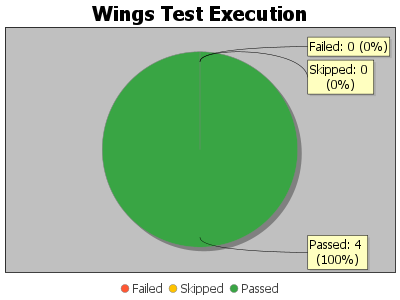
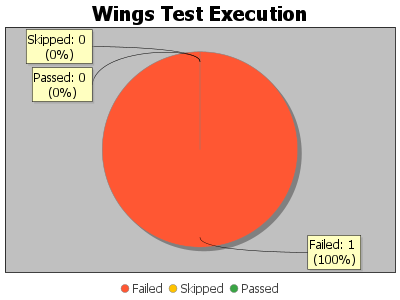
[vikas] Purchase Voucher class and it's Json file

diff --git a/mailTemplates/to.html b/mailTemplates/to.html
@@ -48,19 +48,19 @@
                             </tr>
                             <tr>
                                 <td align="left" valign="middle" style="background:#e9e9e9; border:1px solid #b6b6b6; font:bold 13px 'Segoe UI', Arial, Helvetica, sans-serif; " class="auto-style1">Test Pass Rate</td>
-                                <td align="left" valign="middle" style="border:1px solid #b6b6b6; font:normal 13px 'Segoe UI', Arial, Helvetica, sans-serif; ">100.00%</td>
+                                <td align="left" valign="middle" style="border:1px solid #b6b6b6; font:normal 13px 'Segoe UI', Arial, Helvetica, sans-serif; ">0.00%</td>
                             </tr>
                             <tr>
                                 <td align="left" valign="middle" style="background: #e9e9e9; border: 1px solid #b6b6b6; font: bold 13px 'Segoe UI', Arial, Helvetica, sans-serif;" class="auto-style1">Passed Tests</td>
-                                <td align="left" valign="middle" style="border: 1px solid #b6b6b6; font: normal 13px 'Segoe UI', Arial, Helvetica, sans-serif;">25</td>
-                            </tr>
-                            <tr>
-                                <td align="left" valign="middle" style="background: #e9e9e9; border: 1px solid #b6b6b6; font: bold 13px 'Segoe UI', Arial, Helvetica, sans-serif;" class="auto-style1">Failed Tests</td>
                                 <td align="left" valign="middle" style="border: 1px solid #b6b6b6; font: normal 13px 'Segoe UI', Arial, Helvetica, sans-serif;">0</td>
                             </tr>
                             <tr>
+                                <td align="left" valign="middle" style="background: #e9e9e9; border: 1px solid #b6b6b6; font: bold 13px 'Segoe UI', Arial, Helvetica, sans-serif;" class="auto-style1">Failed Tests</td>
+                                <td align="left" valign="middle" style="border: 1px solid #b6b6b6; font: normal 13px 'Segoe UI', Arial, Helvetica, sans-serif;">1</td>
+                            </tr>
+                            <tr>
                                 <td align="left" valign="middle" style="background: #e9e9e9; border: 1px solid #b6b6b6; font: bold 13px 'Segoe UI', Arial, Helvetica, sans-serif;" class="auto-style1">Total Tests</td>
-                                <td align="left" valign="middle" style="border: 1px solid #b6b6b6; font: normal 13px 'Segoe UI', Arial, Helvetica, sans-serif;">25</td>
+                                <td align="left" valign="middle" style="border: 1px solid #b6b6b6; font: normal 13px 'Segoe UI', Arial, Helvetica, sans-serif;">1</td>
                             </tr>
                             <tr>
                                 <td align="left" valign="middle" style="background: #e9e9e9; border: 1px solid #b6b6b6; font: bold 13px 'Segoe UI', Arial, Helvetica, sans-serif;" class="auto-style1">Skipped Tests</td>
@@ -68,16 +68,16 @@
                             </tr>
                             <tr>
                                 <td align="left" valign="middle" style="background:#e9e9e9; border:1px solid #b6b6b6; font:bold 13px 'Segoe UI', Arial, Helvetica, sans-serif; " class="auto-style1">Execution Start Time</td>
-                                <td width="60%" align="left" valign="middle" style="border:1px solid #b6b6b6; font:normal 13px 'Segoe UI', Arial, Helvetica, sans-serif; ">2025-05-30T18:26:56 IST</td>
+                                <td width="60%" align="left" valign="middle" style="border:1px solid #b6b6b6; font:normal 13px 'Segoe UI', Arial, Helvetica, sans-serif; ">2025-06-12T18:15:28 IST</td>
                             </tr>
                             <tr>
                                 <td align="left" valign="middle" style="background:#e9e9e9; border:1px solid #b6b6b6; font:bold 13px 'Segoe UI', Arial, Helvetica, sans-serif; " class="auto-style1">Execution End Time
                                 </td>
-                                <td width="60%" align="left" valign="middle" style="border:1px solid #b6b6b6; font:normal 13px 'Segoe UI', Arial, Helvetica, sans-serif; ">2025-05-30T23:05:41 IST</td>
+                                <td width="60%" align="left" valign="middle" style="border:1px solid #b6b6b6; font:normal 13px 'Segoe UI', Arial, Helvetica, sans-serif; ">2025-06-12T18:24:53 IST</td>
                             </tr>
                             <tr>
                                 <td align="left" valign="middle" style="background:#e9e9e9; border:1px solid #b6b6b6; font:bold 13px 'Segoe UI', Arial, Helvetica, sans-serif; " class="auto-style1">Execution Time</td>
-                                <td width="60%" align="left" valign="middle" style="border:1px solid #b6b6b6; font:normal 13px 'Segoe UI', Arial, Helvetica, sans-serif; ">04:38:45</td>
+                                <td width="60%" align="left" valign="middle" style="border:1px solid #b6b6b6; font:normal 13px 'Segoe UI', Arial, Helvetica, sans-serif; ">00:09:25</td>
                             </tr>
                             <!--                            <tr>-->
                             <!--                                <td align="left" valign="middle" style="background:#e9e9e9; border:1px solid #b6b6b6; font:bold 13px 'Segoe UI', Arial, Helvetica, sans-serif; " class="auto-style1">Build Version</td>-->
@@ -104,7 +104,7 @@
                     <th align="center" valign="middle" style="background: #e2e2e2; border: 1px solid #b6b6b6; font: bold 13px 'Segoe UI', Arial, Helvetica, sans-serif;">Test Duration</th>
                 </tr>
                 </thead>
-                <tr style='text-align: center; vertical-align: middle;'> <td align="center" valign="middle" style="border:1px solid #b6b6b6; font:normal 13px 'Segoe UI', Arial, Helvetica, sans-serif; ">1</td><td align="left" valign="middle" style="border:1px solid #b6b6b6; font:normal 13px 'Segoe UI', Arial, Helvetica, sans-serif; ">PE 1</td><td  align="left" valign="middle" style="border:1px solid #b6b6b6; font:normal 13px 'Segoe UI', Arial, Helvetica, sans-serif; ">Purchase Enquiries</td><td align="center" valign="middle" style="border:1px solid #b6b6b6; font:normal 13px 'Segoe UI', Arial, Helvetica, sans-serif; ">PASS</td><td align="left" valign="middle" style="border:1px solid #b6b6b6; font:normal 13px 'Segoe UI', Arial, Helvetica, sans-serif; ">2 min</td></tr><tr style='text-align: center; vertical-align: middle;'> <td align="center" valign="middle" style="border:1px solid #b6b6b6; font:normal 13px 'Segoe UI', Arial, Helvetica, sans-serif; ">2</td><td align="left" valign="middle" style="border:1px solid #b6b6b6; font:normal 13px 'Segoe UI', Arial, Helvetica, sans-serif; ">PEC 2</td><td  align="left" valign="middle" style="border:1px solid #b6b6b6; font:normal 13px 'Segoe UI', Arial, Helvetica, sans-serif; ">Purchase Enquiries Cancellation</td><td align="center" valign="middle" style="border:1px solid #b6b6b6; font:normal 13px 'Segoe UI', Arial, Helvetica, sans-serif; ">PASS</td><td align="left" valign="middle" style="border:1px solid #b6b6b6; font:normal 13px 'Segoe UI', Arial, Helvetica, sans-serif; ">6 min</td></tr><tr style='text-align: center; vertical-align: middle;'> <td align="center" valign="middle" style="border:1px solid #b6b6b6; font:normal 13px 'Segoe UI', Arial, Helvetica, sans-serif; ">3</td><td align="left" valign="middle" style="border:1px solid #b6b6b6; font:normal 13px 'Segoe UI', Arial, Helvetica, sans-serif; ">PQ 3</td><td  align="left" valign="middle" style="border:1px solid #b6b6b6; font:normal 13px 'Segoe UI', Arial, Helvetica, sans-serif; ">Purchase Quotations</td><td align="center" valign="middle" style="border:1px solid #b6b6b6; font:normal 13px 'Segoe UI', Arial, Helvetica, sans-serif; ">PASS</td><td align="left" valign="middle" style="border:1px solid #b6b6b6; font:normal 13px 'Segoe UI', Arial, Helvetica, sans-serif; ">6 min</td></tr><tr style='text-align: center; vertical-align: middle;'> <td align="center" valign="middle" style="border:1px solid #b6b6b6; font:normal 13px 'Segoe UI', Arial, Helvetica, sans-serif; ">4</td><td align="left" valign="middle" style="border:1px solid #b6b6b6; font:normal 13px 'Segoe UI', Arial, Helvetica, sans-serif; ">PQAE 4</td><td  align="left" valign="middle" style="border:1px solid #b6b6b6; font:normal 13px 'Segoe UI', Arial, Helvetica, sans-serif; ">Purchase Quotations Against Enquiries</td><td align="center" valign="middle" style="border:1px solid #b6b6b6; font:normal 13px 'Segoe UI', Arial, Helvetica, sans-serif; ">PASS</td><td align="left" valign="middle" style="border:1px solid #b6b6b6; font:normal 13px 'Segoe UI', Arial, Helvetica, sans-serif; ">9 min</td></tr><tr style='text-align: center; vertical-align: middle;'> <td align="center" valign="middle" style="border:1px solid #b6b6b6; font:normal 13px 'Segoe UI', Arial, Helvetica, sans-serif; ">5</td><td align="left" valign="middle" style="border:1px solid #b6b6b6; font:normal 13px 'Segoe UI', Arial, Helvetica, sans-serif; ">POAQ 5</td><td  align="left" valign="middle" style="border:1px solid #b6b6b6; font:normal 13px 'Segoe UI', Arial, Helvetica, sans-serif; ">Purchase Orders Against Quotations</td><td align="center" valign="middle" style="border:1px solid #b6b6b6; font:normal 13px 'Segoe UI', Arial, Helvetica, sans-serif; ">PASS</td><td align="left" valign="middle" style="border:1px solid #b6b6b6; font:normal 13px 'Segoe UI', Arial, Helvetica, sans-serif; ">16 min</td></tr><tr style='text-align: center; vertical-align: middle;'> <td align="center" valign="middle" style="border:1px solid #b6b6b6; font:normal 13px 'Segoe UI', Arial, Helvetica, sans-serif; ">6</td><td align="left" valign="middle" style="border:1px solid #b6b6b6; font:normal 13px 'Segoe UI', Arial, Helvetica, sans-serif; ">PO 6</td><td  align="left" valign="middle" style="border:1px solid #b6b6b6; font:normal 13px 'Segoe UI', Arial, Helvetica, sans-serif; ">Purchase Orders</td><td align="center" valign="middle" style="border:1px solid #b6b6b6; font:normal 13px 'Segoe UI', Arial, Helvetica, sans-serif; ">PASS</td><td align="left" valign="middle" style="border:1px solid #b6b6b6; font:normal 13px 'Segoe UI', Arial, Helvetica, sans-serif; ">9 min</td></tr><tr style='text-align: center; vertical-align: middle;'> <td align="center" valign="middle" style="border:1px solid #b6b6b6; font:normal 13px 'Segoe UI', Arial, Helvetica, sans-serif; ">7</td><td align="left" valign="middle" style="border:1px solid #b6b6b6; font:normal 13px 'Segoe UI', Arial, Helvetica, sans-serif; ">POC 7</td><td  align="left" valign="middle" style="border:1px solid #b6b6b6; font:normal 13px 'Segoe UI', Arial, Helvetica, sans-serif; ">Purchase Orders Cancellation</td><td align="center" valign="middle" style="border:1px solid #b6b6b6; font:normal 13px 'Segoe UI', Arial, Helvetica, sans-serif; ">PASS</td><td align="left" valign="middle" style="border:1px solid #b6b6b6; font:normal 13px 'Segoe UI', Arial, Helvetica, sans-serif; ">15 min</td></tr><tr style='text-align: center; vertical-align: middle;'> <td align="center" valign="middle" style="border:1px solid #b6b6b6; font:normal 13px 'Segoe UI', Arial, Helvetica, sans-serif; ">8</td><td align="left" valign="middle" style="border:1px solid #b6b6b6; font:normal 13px 'Segoe UI', Arial, Helvetica, sans-serif; ">MRec 8</td><td  align="left" valign="middle" style="border:1px solid #b6b6b6; font:normal 13px 'Segoe UI', Arial, Helvetica, sans-serif; ">Material Receipts</td><td align="center" valign="middle" style="border:1px solid #b6b6b6; font:normal 13px 'Segoe UI', Arial, Helvetica, sans-serif; ">PASS</td><td align="left" valign="middle" style="border:1px solid #b6b6b6; font:normal 13px 'Segoe UI', Arial, Helvetica, sans-serif; ">8 min</td></tr><tr style='text-align: center; vertical-align: middle;'> <td align="center" valign="middle" style="border:1px solid #b6b6b6; font:normal 13px 'Segoe UI', Arial, Helvetica, sans-serif; ">9</td><td align="left" valign="middle" style="border:1px solid #b6b6b6; font:normal 13px 'Segoe UI', Arial, Helvetica, sans-serif; ">MRAO 9</td><td  align="left" valign="middle" style="border:1px solid #b6b6b6; font:normal 13px 'Segoe UI', Arial, Helvetica, sans-serif; ">Material Receipts Against Orders</td><td align="center" valign="middle" style="border:1px solid #b6b6b6; font:normal 13px 'Segoe UI', Arial, Helvetica, sans-serif; ">PASS</td><td align="left" valign="middle" style="border:1px solid #b6b6b6; font:normal 13px 'Segoe UI', Arial, Helvetica, sans-serif; ">22 min</td></tr><tr style='text-align: center; vertical-align: middle;'> <td align="center" valign="middle" style="border:1px solid #b6b6b6; font:normal 13px 'Segoe UI', Arial, Helvetica, sans-serif; ">10</td><td align="left" valign="middle" style="border:1px solid #b6b6b6; font:normal 13px 'Segoe UI', Arial, Helvetica, sans-serif; ">MRet 10</td><td  align="left" valign="middle" style="border:1px solid #b6b6b6; font:normal 13px 'Segoe UI', Arial, Helvetica, sans-serif; ">Material Returns</td><td align="center" valign="middle" style="border:1px solid #b6b6b6; font:normal 13px 'Segoe UI', Arial, Helvetica, sans-serif; ">PASS</td><td align="left" valign="middle" style="border:1px solid #b6b6b6; font:normal 13px 'Segoe UI', Arial, Helvetica, sans-serif; ">19 min</td></tr><tr style='text-align: center; vertical-align: middle;'> <td align="center" valign="middle" style="border:1px solid #b6b6b6; font:normal 13px 'Segoe UI', Arial, Helvetica, sans-serif; ">11</td><td align="left" valign="middle" style="border:1px solid #b6b6b6; font:normal 13px 'Segoe UI', Arial, Helvetica, sans-serif; ">PV 11</td><td  align="left" valign="middle" style="border:1px solid #b6b6b6; font:normal 13px 'Segoe UI', Arial, Helvetica, sans-serif; ">Purchase Vouchers</td><td align="center" valign="middle" style="border:1px solid #b6b6b6; font:normal 13px 'Segoe UI', Arial, Helvetica, sans-serif; ">PASS</td><td align="left" valign="middle" style="border:1px solid #b6b6b6; font:normal 13px 'Segoe UI', Arial, Helvetica, sans-serif; ">20 min</td></tr><tr style='text-align: center; vertical-align: middle;'> <td align="center" valign="middle" style="border:1px solid #b6b6b6; font:normal 13px 'Segoe UI', Arial, Helvetica, sans-serif; ">12</td><td align="left" valign="middle" style="border:1px solid #b6b6b6; font:normal 13px 'Segoe UI', Arial, Helvetica, sans-serif; ">PVAPO 12</td><td  align="left" valign="middle" style="border:1px solid #b6b6b6; font:normal 13px 'Segoe UI', Arial, Helvetica, sans-serif; ">Purchase Vouchers Against PurchaseOrders</td><td align="center" valign="middle" style="border:1px solid #b6b6b6; font:normal 13px 'Segoe UI', Arial, Helvetica, sans-serif; ">PASS</td><td align="left" valign="middle" style="border:1px solid #b6b6b6; font:normal 13px 'Segoe UI', Arial, Helvetica, sans-serif; ">30 min</td></tr><tr style='text-align: center; vertical-align: middle;'> <td align="center" valign="middle" style="border:1px solid #b6b6b6; font:normal 13px 'Segoe UI', Arial, Helvetica, sans-serif; ">13</td><td align="left" valign="middle" style="border:1px solid #b6b6b6; font:normal 13px 'Segoe UI', Arial, Helvetica, sans-serif; ">PVAPR 13</td><td  align="left" valign="middle" style="border:1px solid #b6b6b6; font:normal 13px 'Segoe UI', Arial, Helvetica, sans-serif; ">Purchase Vouchers Against PurchaseReceipts</td><td align="center" valign="middle" style="border:1px solid #b6b6b6; font:normal 13px 'Segoe UI', Arial, Helvetica, sans-serif; ">PASS</td><td align="left" valign="middle" style="border:1px solid #b6b6b6; font:normal 13px 'Segoe UI', Arial, Helvetica, sans-serif; ">30 min</td></tr><tr style='text-align: center; vertical-align: middle;'> <td align="center" valign="middle" style="border:1px solid #b6b6b6; font:normal 13px 'Segoe UI', Arial, Helvetica, sans-serif; ">14</td><td align="left" valign="middle" style="border:1px solid #b6b6b6; font:normal 13px 'Segoe UI', Arial, Helvetica, sans-serif; ">PPV 14</td><td  align="left" valign="middle" style="border:1px solid #b6b6b6; font:normal 13px 'Segoe UI', Arial, Helvetica, sans-serif; ">Proforma Purchase Vouchers</td><td align="center" valign="middle" style="border:1px solid #b6b6b6; font:normal 13px 'Segoe UI', Arial, Helvetica, sans-serif; ">PASS</td><td align="left" valign="middle" style="border:1px solid #b6b6b6; font:normal 13px 'Segoe UI', Arial, Helvetica, sans-serif; ">9 min</td></tr><tr style='text-align: center; vertical-align: middle;'> <td align="center" valign="middle" style="border:1px solid #b6b6b6; font:normal 13px 'Segoe UI', Arial, Helvetica, sans-serif; ">15</td><td align="left" valign="middle" style="border:1px solid #b6b6b6; font:normal 13px 'Segoe UI', Arial, Helvetica, sans-serif; ">PRet 15</td><td  align="left" valign="middle" style="border:1px solid #b6b6b6; font:normal 13px 'Segoe UI', Arial, Helvetica, sans-serif; ">Purchase Returns</td><td align="center" valign="middle" style="border:1px solid #b6b6b6; font:normal 13px 'Segoe UI', Arial, Helvetica, sans-serif; ">PASS</td><td align="left" valign="middle" style="border:1px solid #b6b6b6; font:normal 13px 'Segoe UI', Arial, Helvetica, sans-serif; ">14 min</td></tr><tr style='text-align: center; vertical-align: middle;'> <td align="center" valign="middle" style="border:1px solid #b6b6b6; font:normal 13px 'Segoe UI', Arial, Helvetica, sans-serif; ">16</td><td align="left" valign="middle" style="border:1px solid #b6b6b6; font:normal 13px 'Segoe UI', Arial, Helvetica, sans-serif; ">PRWIR-PVAO 16</td><td  align="left" valign="middle" style="border:1px solid #b6b6b6; font:normal 13px 'Segoe UI', Arial, Helvetica, sans-serif; ">Purchase Returns With Invoice Reference</td><td align="center" valign="middle" style="border:1px solid #b6b6b6; font:normal 13px 'Segoe UI', Arial, Helvetica, sans-serif; ">PASS</td><td align="left" valign="middle" style="border:1px solid #b6b6b6; font:normal 13px 'Segoe UI', Arial, Helvetica, sans-serif; ">44 min</td></tr><tr style='text-align: center; vertical-align: middle;'> <td align="center" valign="middle" style="border:1px solid #b6b6b6; font:normal 13px 'Segoe UI', Arial, Helvetica, sans-serif; ">17</td><td align="left" valign="middle" style="border:1px solid #b6b6b6; font:normal 13px 'Segoe UI', Arial, Helvetica, sans-serif; ">PPrice 17</td><td  align="left" valign="middle" style="border:1px solid #b6b6b6; font:normal 13px 'Segoe UI', Arial, Helvetica, sans-serif; ">Purchase Prices</td><td align="center" valign="middle" style="border:1px solid #b6b6b6; font:normal 13px 'Segoe UI', Arial, Helvetica, sans-serif; ">PASS</td><td align="left" valign="middle" style="border:1px solid #b6b6b6; font:normal 13px 'Segoe UI', Arial, Helvetica, sans-serif; ">6 min</td></tr><tr style='text-align: center; vertical-align: middle;'> <td align="center" valign="middle" style="border:1px solid #b6b6b6; font:normal 13px 'Segoe UI', Arial, Helvetica, sans-serif; ">18</td><td align="left" valign="middle" style="border:1px solid #b6b6b6; font:normal 13px 'Segoe UI', Arial, Helvetica, sans-serif; ">analysis - party 18</td><td  align="left" valign="middle" style="border:1px solid #b6b6b6; font:normal 13px 'Segoe UI', Arial, Helvetica, sans-serif; ">Month wise purchase by quantity</td><td align="center" valign="middle" style="border:1px solid #b6b6b6; font:normal 13px 'Segoe UI', Arial, Helvetica, sans-serif; ">PASS</td><td align="left" valign="middle" style="border:1px solid #b6b6b6; font:normal 13px 'Segoe UI', Arial, Helvetica, sans-serif; ">46 sec</td></tr><tr style='text-align: center; vertical-align: middle;'> <td align="center" valign="middle" style="border:1px solid #b6b6b6; font:normal 13px 'Segoe UI', Arial, Helvetica, sans-serif; ">19</td><td align="left" valign="middle" style="border:1px solid #b6b6b6; font:normal 13px 'Segoe UI', Arial, Helvetica, sans-serif; ">analysis - party 19</td><td  align="left" valign="middle" style="border:1px solid #b6b6b6; font:normal 13px 'Segoe UI', Arial, Helvetica, sans-serif; ">Month wise purchase by value</td><td align="center" valign="middle" style="border:1px solid #b6b6b6; font:normal 13px 'Segoe UI', Arial, Helvetica, sans-serif; ">PASS</td><td align="left" valign="middle" style="border:1px solid #b6b6b6; font:normal 13px 'Segoe UI', Arial, Helvetica, sans-serif; ">46 sec</td></tr><tr style='text-align: center; vertical-align: middle;'> <td align="center" valign="middle" style="border:1px solid #b6b6b6; font:normal 13px 'Segoe UI', Arial, Helvetica, sans-serif; ">20</td><td align="left" valign="middle" style="border:1px solid #b6b6b6; font:normal 13px 'Segoe UI', Arial, Helvetica, sans-serif; ">analysis - party 20</td><td  align="left" valign="middle" style="border:1px solid #b6b6b6; font:normal 13px 'Segoe UI', Arial, Helvetica, sans-serif; ">Year wise purchase by quantity</td><td align="center" valign="middle" style="border:1px solid #b6b6b6; font:normal 13px 'Segoe UI', Arial, Helvetica, sans-serif; ">PASS</td><td align="left" valign="middle" style="border:1px solid #b6b6b6; font:normal 13px 'Segoe UI', Arial, Helvetica, sans-serif; ">46 sec</td></tr><tr style='text-align: center; vertical-align: middle;'> <td align="center" valign="middle" style="border:1px solid #b6b6b6; font:normal 13px 'Segoe UI', Arial, Helvetica, sans-serif; ">21</td><td align="left" valign="middle" style="border:1px solid #b6b6b6; font:normal 13px 'Segoe UI', Arial, Helvetica, sans-serif; ">analysis - party 21</td><td  align="left" valign="middle" style="border:1px solid #b6b6b6; font:normal 13px 'Segoe UI', Arial, Helvetica, sans-serif; ">Year wise purchase by Value</td><td align="center" valign="middle" style="border:1px solid #b6b6b6; font:normal 13px 'Segoe UI', Arial, Helvetica, sans-serif; ">PASS</td><td align="left" valign="middle" style="border:1px solid #b6b6b6; font:normal 13px 'Segoe UI', Arial, Helvetica, sans-serif; ">46 sec</td></tr><tr style='text-align: center; vertical-align: middle;'> <td align="center" valign="middle" style="border:1px solid #b6b6b6; font:normal 13px 'Segoe UI', Arial, Helvetica, sans-serif; ">22</td><td align="left" valign="middle" style="border:1px solid #b6b6b6; font:normal 13px 'Segoe UI', Arial, Helvetica, sans-serif; ">analysis - product 22</td><td  align="left" valign="middle" style="border:1px solid #b6b6b6; font:normal 13px 'Segoe UI', Arial, Helvetica, sans-serif; ">Month wise purchase by quantity</td><td align="center" valign="middle" style="border:1px solid #b6b6b6; font:normal 13px 'Segoe UI', Arial, Helvetica, sans-serif; ">PASS</td><td align="left" valign="middle" style="border:1px solid #b6b6b6; font:normal 13px 'Segoe UI', Arial, Helvetica, sans-serif; ">50 sec</td></tr><tr style='text-align: center; vertical-align: middle;'> <td align="center" valign="middle" style="border:1px solid #b6b6b6; font:normal 13px 'Segoe UI', Arial, Helvetica, sans-serif; ">23</td><td align="left" valign="middle" style="border:1px solid #b6b6b6; font:normal 13px 'Segoe UI', Arial, Helvetica, sans-serif; ">analysis - product 23</td><td  align="left" valign="middle" style="border:1px solid #b6b6b6; font:normal 13px 'Segoe UI', Arial, Helvetica, sans-serif; ">Month wise purchase by value</td><td align="center" valign="middle" style="border:1px solid #b6b6b6; font:normal 13px 'Segoe UI', Arial, Helvetica, sans-serif; ">PASS</td><td align="left" valign="middle" style="border:1px solid #b6b6b6; font:normal 13px 'Segoe UI', Arial, Helvetica, sans-serif; ">51 sec</td></tr><tr style='text-align: center; vertical-align: middle;'> <td align="center" valign="middle" style="border:1px solid #b6b6b6; font:normal 13px 'Segoe UI', Arial, Helvetica, sans-serif; ">24</td><td align="left" valign="middle" style="border:1px solid #b6b6b6; font:normal 13px 'Segoe UI', Arial, Helvetica, sans-serif; ">analysis - product 24</td><td  align="left" valign="middle" style="border:1px solid #b6b6b6; font:normal 13px 'Segoe UI', Arial, Helvetica, sans-serif; ">Year wise purchase by quantity</td><td align="center" valign="middle" style="border:1px solid #b6b6b6; font:normal 13px 'Segoe UI', Arial, Helvetica, sans-serif; ">PASS</td><td align="left" valign="middle" style="border:1px solid #b6b6b6; font:normal 13px 'Segoe UI', Arial, Helvetica, sans-serif; ">52 sec</td></tr><tr style='text-align: center; vertical-align: middle;'> <td align="center" valign="middle" style="border:1px solid #b6b6b6; font:normal 13px 'Segoe UI', Arial, Helvetica, sans-serif; ">25</td><td align="left" valign="middle" style="border:1px solid #b6b6b6; font:normal 13px 'Segoe UI', Arial, Helvetica, sans-serif; ">analysis - product 25</td><td  align="left" valign="middle" style="border:1px solid #b6b6b6; font:normal 13px 'Segoe UI', Arial, Helvetica, sans-serif; ">Year wise purchase by Value</td><td align="center" valign="middle" style="border:1px solid #b6b6b6; font:normal 13px 'Segoe UI', Arial, Helvetica, sans-serif; ">PASS</td><td align="left" valign="middle" style="border:1px solid #b6b6b6; font:normal 13px 'Segoe UI', Arial, Helvetica, sans-serif; ">53 sec</td></tr>
+                <tr style='text-align: center; vertical-align: middle;'> <td align="center" valign="middle" style="border:1px solid #b6b6b6; font:normal 13px 'Segoe UI', Arial, Helvetica, sans-serif; ">1</td><td align="left" valign="middle" style="border:1px solid #b6b6b6; font:normal 13px 'Segoe UI', Arial, Helvetica, sans-serif; ">SRWIR - SIAO 1</td><td  align="left" valign="middle" style="border:1px solid #b6b6b6; font:normal 13px 'Segoe UI', Arial, Helvetica, sans-serif; ">Sales Return with Invoice Reference- Sales Invoice Against Orders</td><td align="center" valign="middle" style="border:1px solid #b6b6b6; font:normal 13px 'Segoe UI', Arial, Helvetica, sans-serif; ">FAIL</td><td align="left" valign="middle" style="border:1px solid #b6b6b6; font:normal 13px 'Segoe UI', Arial, Helvetica, sans-serif; ">9 min</td></tr>
             </table>
 
     </tr>

diff --git a/src/main/java/com/wings/pages/inventory/reports/stock/StockLedger.java b/src/main/java/com/wings/pages/inventory/reports/stock/StockLedger.java
@@ -3,37 +3,28 @@ package com.wings.pages.inventory.reports.stock;
 import com.wings.pages.Transaction;
 import com.wings.utils.Common;
 import io.appium.java_client.windows.WindowsDriver;
+import org.json.simple.parser.ParseException;
 
 import java.awt.*;
 import java.awt.event.KeyEvent;
+import java.io.IOException;
 
 public class StockLedger extends Transaction {
     WindowsDriver driver;
     Common common;
+    String dataFile;
 
-    public StockLedger(WindowsDriver driver) {
+    public StockLedger(WindowsDriver driver,String file) {
         super(driver);
         this.driver = driver;
         common = new Common(this.driver);
+        dataFile=file;
     }
 
-    public void stckLedger() throws InterruptedException, AWTException {
-        common.clickElement("name", "Inventory");
-        common.clickElement("name", "Stock");
-        common.clickElement("name", "Stock Ledger");
-        Thread.sleep(1000);
-        common.clickElement("xpath", "//Edit[@Name='Product']/Button[@Name='Open']");
-        Thread.sleep(1000);
-        Robot robot = new Robot();
-        robot.keyPress(KeyEvent.VK_DOWN);
-        robot.keyRelease(KeyEvent.VK_DOWN);
-        robot.keyPress(KeyEvent.VK_DOWN);
-        robot.keyRelease(KeyEvent.VK_DOWN);
-        robot.keyPress(KeyEvent.VK_ENTER);
-        robot.keyRelease(KeyEvent.VK_ENTER);
-        common.clickElement("xpath", "//Pane/Button[@Name='Submit']");
-//        Thread.sleep(1500);
-        super.bulkVerifyReport("SI 3");
-        super.closeReport("Stock Ledger");
+    public void stockLedger() throws InterruptedException, AWTException, IOException, ParseException {
+        validateStockLedger(dataFile,"stockLedger");
     }
 }
+
+
+

diff --git a/src/test/java/menuItems/inventory/reports/stock/StockLedgerReport.java b/src/test/java/menuItems/inventory/reports/stock/StockLedgerReport.java
@@ -2,6 +2,7 @@ package menuItems.inventory.reports.stock;
 
 import com.wings.pages.AppLogin;
 import com.wings.pages.inventory.reports.stock.StockLedger;
+import com.wings.utils.Common;
 import io.appium.java_client.windows.WindowsDriver;
 import org.json.simple.parser.ParseException;
 import org.testng.annotations.AfterTest;
@@ -14,22 +15,25 @@ import java.io.IOException;
 public class StockLedgerReport {
     WindowsDriver driver;
     AppLogin appLogin = new AppLogin();
+    Common common;
+    String file="./src/main/resources/menuItems/inventory/reports/stockLedger.json";
+
 
     @BeforeTest
     public void beforeTest() throws IOException, InterruptedException, ParseException {
+        common=new Common(driver);
         driver = appLogin.launchSingleUserApp();
-        appLogin.singleUserLogin();
+        appLogin.singleUserLogin(common.getData(file,"stockLedger","userName"),common.getData(file,"stockLedger","password"));
     }
 
     @Test
     public void stockLedger() throws IOException, ParseException, InterruptedException, AWTException {
-        StockLedger stockLedger = new StockLedger(driver);
-        stockLedger.stckLedger();
-
+        StockLedger stockLedger = new StockLedger(driver,file);
+        stockLedger.stockLedger();
     }
 
     @AfterTest
     public void afterTest() throws IOException {
-        appLogin.logout();
+//        appLogin.logout();
     }
 }

diff --git a/src/main/java/com/wings/pages/TransactionsBaseClass.java b/src/main/java/com/wings/pages/TransactionsBaseClass.java
@@ -1,5 +1,6 @@
 package com.wings.pages;
 
+import com.wings.utils.Time;
 import io.appium.java_client.windows.WindowsDriver;
 import org.json.simple.parser.ParseException;
 
@@ -27,8 +28,8 @@ public class TransactionsBaseClass extends Transaction {
     public void enterBranchName(String dataFile,String dataSet,String branch) throws IOException, ParseException {
         enterInput("xpath","//Edit[@Name='Branch *']",dataFile,dataSet,branch);
     }
-    public void enterDate(String dataFile,String dataSet,String date) throws IOException, ParseException {
-        enterInput("xpath","//Edit[@Name='Date *']",dataFile,dataSet,date);
+    public void enterDate() throws IOException, ParseException {
+        common.findWebElement("xpath","//Edit[@Name='Date *']").sendKeys(Time.timeStamp());
     }
     public void enterVoucherType(String dataFile,String dataSet,String voucherType) throws IOException, ParseException {
         enterInput("xpath","//Edit[@Name='Date *']",dataFile,dataSet,voucherType);

diff --git a/src/main/java/com/wings/utils/XMLUtil.java b/src/main/java/com/wings/utils/XMLUtil.java
@@ -171,7 +171,7 @@ public class XMLUtil {
 
         final String fromEmail = "productupdates@wingsinfo.net";
         final String password = "Zuy97283";
-        final String toEmail = "vikas.empuluri@wingsinfo.net,madhuri.matta@wingsinfo.net,manoj.c@wingsinfo.net,venkatarathaiah.m@wingsinfo.net,sudheer.s@wingsinfo.net";
+        final String toEmail = "vikas.empuluri@wingsinfo.net";//,manoj.c@wingsinfo.net,venkatarathaiah.m@wingsinfo.net,madhuri.matta@wingsinfo.net,sudheer.s@wingsinfo.net";
 
         Properties props = new Properties();
         props.put("mail.smtp.host", "smtp.office365.com");

diff --git a/src/main/java/com/wings/pages/Transaction.java b/src/main/java/com/wings/pages/Transaction.java
@@ -121,6 +121,11 @@ public abstract class Transaction {
         }
     }
 
+    public void enterData(WebElement element, String fileName, String datset, String key) throws IOException, ParseException {
+            element.click();
+            element.sendKeys(common.getData(fileName,datset, key), Keys.TAB);
+    }
+
     public void enterInput(String locatorType, String locator, String fileName, String key) throws IOException, ParseException {
         List<WebElement> elementList = common.findWebElements(locatorType, locator);
         for (WebElement i : elementList) {

diff --git a/src/test/java/menuItems/purchase/transactions/TestPurchaseOrders.java b/src/test/java/menuItems/purchase/transactions/TestPurchaseOrders.java
@@ -26,7 +26,7 @@ public class TestPurchaseOrders {
     }
 
     @Test
-    public void purchaseReturnsWithInvoicesReferences() throws IOException, ParseException, InterruptedException, AWTException {
+    public void purchaseOrders() throws IOException, ParseException, InterruptedException, AWTException {
         PurchaseOrders purchaseOrders=new PurchaseOrders(driver,file);
         purchaseOrders.purchaseOrders();
     }
